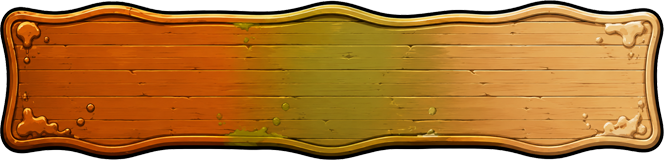
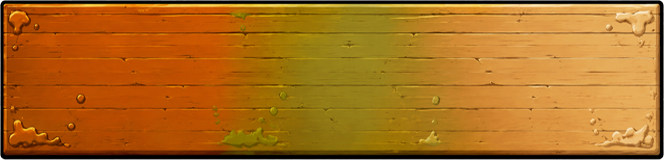
Stage 64.3.2: fix enemy panel sprite layout

diff --git a/README.md b/README.md
@@ -47,10 +47,10 @@ This stage includes:
 - `GameAssetCatalog` maps reserved image asset keys to future `res://assets/images/` paths and loads optional textures safely with a small cache for loaded and missing textures.
 - `AssetKeyResolver` maps background IDs, enemy IDs, tile types, special tile types, UI ids, level button states, star states, and booster ids to `GameAssetCatalog` asset keys without scattering string literals through UI code.
 - `GameScreen` uses an `ImageSlot` for the active battle background, applying the selected background asset key and placeholder color.
-- `EnemyPanel`'s `EnemySprite`/`BackgroundVisual` resolve textures through `GameAssetCatalog`/`AssetKeyResolver` (`get_enemy_normal_asset_key()`/`get_enemy_damaged_asset_key()`/`get_enemy_panel_background_asset_keys()`), never overwriting an Inspector-assigned texture (Stage 64.1).
+- `EnemyPanel`'s `EnemySprite`/`BackgroundVisual` resolve textures through `GameAssetCatalog`/`AssetKeyResolver` (`get_enemy_normal_asset_key()`/`get_enemy_damaged_asset_key()`/`get_enemy_panel_background_asset_keys()`), never overwriting an Inspector-assigned texture (Stage 64.1). `BackgroundVisual` is a full-rect background sized for a 664x200 texture; `EnemySprite` is a fixed 175x175 rect, horizontally centered and bottom-aligned to `EnemyPanel`'s bottom edge (Stage 64.3.2).
 - `TileView` resolves optional tile textures through the cached asset pipeline; missing tile textures preserve the current color placeholders and special `H`/`V`/`B` markers.
 - LevelSelect, Settings, battle HUD/status/result panels, and RoundModifierPanel now carry stable reserved UI asset keys for later texture art.
-- `BoosterPanel` (Stage 64.2, fixed into editor-visible scene nodes in Stage 64.3) uses square, texture-based `BoosterTextureButton` controls for Hammer, Time Freeze, and Rocket Barrage in active combat, reusing the existing Shop booster icon asset keys, with selected/disabled color-filter states and a bottom-center `CountLabel` overlay (e.g. `"x3"`).
+- `BoosterPanel` (Stage 64.2, fixed into editor-visible scene nodes in Stage 64.3) uses square, texture-based `BoosterTextureButton` controls for Hammer, Time Freeze, and Rocket Barrage in active combat, reusing the existing Shop booster icon asset keys, with selected/disabled states and a bottom-center `CountLabel` overlay (e.g. `"x3"`). When an icon texture is assigned, selected/disabled tint is applied via `ButtonTexture.modulate` rather than a full-rect color filter, so transparent icon padding stays transparent (Stage 64.3.1); the full-rect filter is now used only behind the `Fallback` placeholder when no icon texture is assigned.
 - Empty asset folders under `assets/images/backgrounds/`, `assets/images/enemies/`, `assets/images/tiles/`, `assets/images/ui/`, `assets/images/boosters/`, and `assets/images/heroes/` for later real images.
 - `AudioAssetCatalog` maps reserved audio keys to future `res://assets/audio/` paths and loads optional streams safely with a small cache for loaded and missing audio.
 - `AudioManager` is registered as an autoload singleton, owns one music player and an 8-player SFX pool, and safely no-ops when audio files are missing.
@@ -1763,8 +1763,35 @@ Stage 64.6 extends Stage 64.5's numeric asset renaming down into gameplay code: 
 - **Unchanged by design.** Board input/swaps/cascades, damage calculation, enemy HP, victory/defeat, result overlay, deterministic levels, holes, ice, no-move shuffle, economy, rewards, `LevelSelectScreen`, `MainMenuScreen`, `SettingsScreen`, and `ShopScreen` are all untouched — only enemy id strings and enemy asset-key strings changed, not any gameplay values or control flow.
 - **No automated tests were added, updated, touched, or run.** Manual verification in the Godot editor is expected for this stage.
 
+## Stage 64.3.1: Transparent Icon Filter/Fallback Fix v0.1
+
+Stage 64.3.1 is a micro-patch fixing a visual bug in `BoosterTextureButton` (Stage 64.2/64.3): its `StateFilter` full-rect `ColorRect` tinted the entire square node area for disabled/selected states, including the transparent padding around a transparent PNG icon, producing a visible colored square behind/around the icon instead of tinting only the icon itself.
+
+- **Root cause.** `booster_texture_button.gd`'s `_update_visual()` unconditionally showed `StateFilter` (a full-rect `ColorRect`) whenever `is_disabled_state`/`is_selected` was true, regardless of whether `ButtonTexture` had an active texture. Since transparent PNG icons don't fill their square slot, the full-rect tint was visible as a colored/dark square around the icon.
+- **Fix: texture-present states now use `ButtonTexture.modulate`.** When `active_texture` (from `default_texture`/`selected_texture`/`disabled_texture`) is non-null, `_update_visual()` no longer shows `StateFilter` at all; instead it sets `ButtonTexture.modulate` to a new `disabled_texture_modulate` (darker/desaturated, default `Color(0.55, 0.55, 0.55, 0.6)`) or `selected_texture_modulate` (brighter/highlighted, default `Color(1.25, 1.15, 0.75, 1.0)`) export, or `Color.WHITE` for the normal state. Since `modulate` only affects the texture's own visible pixels, transparent areas stay transparent.
+- **Fallback mode unchanged in spirit, scoped correctly.** `StateFilter` is now only ever shown when `active_texture == null` (no default/selected/disabled texture assigned), where it continues to tint the full-rect `Fallback` `ColorRect` using the existing `disabled_filter_color`/`selected_filter_color` exports, exactly as before. `Fallback` itself is still shown only when no active texture exists, and `ButtonTexture` is explicitly hidden (`visible = false`) in that case so no stale texture peeks through.
+- **`CountLabel` unaffected.** Still renders as a bottom-center overlay above icon/fallback in all states; its `x0`/`x1`/`x3` text logic (`set_count()`/`count_text`) was not touched.
+- **State logic preserved.** `is_selected`/`is_disabled_state`/`selected_texture`/`disabled_texture` fallback-to-`default_texture` behavior, `booster_id`, the `pressed` signal, and `BoosterPanel.refresh()`'s count/selected/disabled wiring are all unchanged — only how the state is *drawn* changed.
+- **Other GameScreen asset controls reviewed, no other fix needed.** `FallbackImageSlot` (`EnemyPanel`'s `BackgroundVisual`/`EnemySprite`, `BoosterPanel`'s `PanelBackground`) already hides its `Fallback` rect whenever a texture is assigned (`_fallback_rect.visible = texture == null`) and has no full-rect state-tint concept, so it did not have this bug. `ImageSlot` (used by `Board` tile textures) already only shows its placeholder `color` when no texture is set or `show_fallback_behind_texture` is explicitly enabled. `LevelMapButton`'s `StateFilter` (`level_select/level_map_button.gd`) already renders `default_texture` itself (via a `TextureRect`, not a plain `ColorRect`) with a modulate tint, so it never had the full-square-overlay bug either and was left untouched.
+- **`BoosterPanel` layering re-verified, no changes needed.** `PanelBackground` (a `FallbackImageSlot`) sits behind `ButtonRow` in the scene tree and both already have `mouse_filter` settings that don't block booster button clicks; no square fallback bleed-through from `PanelBackground` into individual booster buttons was found.
+- **Unchanged by design.** Booster ids, the `booster_pressed` signal, booster counts/spending, selected-booster mode, disabled-booster logic, board gameplay, enemy HP, the round modifier panel, economy, rewards, `LevelSelectScreen`, `MainMenuScreen`, `SettingsScreen`, and `ShopScreen` are all untouched.
+- **No automated tests were added, updated, touched, or run.** This is a visual-only micro-patch; manual verification in the Godot editor is expected.
+
+## Stage 64.3.2: Enemy Panel Fixed Background and Sprite Layout v0.1
+
+Stage 64.3.2 fixes `EnemyPanel`'s visual composition: `BackgroundVisual` stays a full-rect layer sized for a 664x200 texture, while `EnemySprite` becomes a fixed 175x175 rect, horizontally centered and bottom-aligned to `EnemyPanel`'s bottom edge, instead of stretching to fill the whole panel.
+
+- **`BackgroundVisual` unchanged.** Still a full-rect `FallbackImageSlot` (`anchors_preset = 15`, `stretch_mode = 6` / `STRETCH_KEEP_ASPECT_COVERED`) covering the entire `EnemyPanel`, sized for a 664x200-authored background texture (the panel's own runtime size is still driven by `game_screen.gd`'s portrait/landscape `custom_minimum_size`, e.g. `(664, 200)` portrait).
+- **`EnemySprite` resized and repositioned.** In `scenes/ui/EnemyPanel.tscn`, `EnemySprite` now uses `anchor_left = anchor_right = 0.5` (horizontal center) and `anchor_top = anchor_bottom = 1.0` (bottom edge), with `offset_left = -87.5`/`offset_right = 87.5`/`offset_top = -175`/`offset_bottom = 0`, producing a fixed 175x175 rect whose bottom edge sits exactly on `EnemyPanel`'s bottom edge and stays centered horizontally regardless of the panel's actual runtime width/height. No extra `EnemySpriteAnchor` wrapper node was needed — Control's anchor/offset system expresses the fixed centered-bottom box directly.
+- **`FallbackImageSlot` behavior on `EnemySprite` untouched.** Still shows the assigned/loaded enemy texture (`STRETCH_KEEP_ASPECT_CENTERED`, the class default, keeping the 175x175 box from distorting non-175x175 art) or its colored `Fallback` rect when no texture is set — same `_ready()`/`_update_visual()` logic as before, just operating on a smaller rect.
+- **`enemy_panel.gd` unchanged.** `set_enemy_state()`/`set_enemy_textures()` still resolve `enemy_N_normal.png`/`enemy_N_damaged.png` via `AssetKeyResolver.get_enemy_normal_asset_key()`/`get_enemy_damaged_asset_key()` exactly as before; the smaller `EnemySprite` rect only changes where the texture is drawn, not how it's chosen. `get_hit_target_global_position()`/`_play_flash_and_shake()` already read `enemy_sprite.size`/`.position` dynamically, so hit-shake/flash and the floating damage label now target the actual 175x175 icon box (previously the full panel) with no code changes required.
+- **HP bar, damage feedback, and hit layer preserved exactly.** `HpBarRoot`/`HpBarBackground`/`HpBarFill`/`HpValueLabel` (bottom-anchored, full-width, `"%d / %d"` format) and `HitEffectLayer` are untouched in both the scene and the script; `play_damage_feedback()`'s normal/damaged texture swap-and-restore tween and `play_hit_feedback()`'s flash/shake/floating-damage behavior are unchanged.
+- **Fallback behavior preserved.** Missing enemy/background textures still show their respective colored `Fallback` rects; Inspector-assigned textures on either slot are still never overwritten (`_sprite_manual_override`/`_background_manual_override`).
+- **Unchanged by design.** Board gameplay, boosters, economy, rewards, `LevelSelectScreen`, `MainMenuScreen`, `SettingsScreen`, `ShopScreen`, holes, ice, and the result flow are all untouched by this scene-only layout change.
+- **No automated tests were added, updated, touched, or run.** Manual verification in the Godot editor is expected for this stage.
+
 ## Next Planned Stages
 
-- Stage 26-30 block is complete. Stage 31 (hero portrait buttons and ability bars) is complete. Stage 32 (hero systems freeze and direct match damage foundation) is complete. Stage 33 (round modifiers and color damage rules) is complete. Stage 34 (direct match-3 balance pass) is complete. Stage 35 (direct LevelSelect startup and simplified UX polish) is complete. Stage 36 (ImageSlot asset placeholder pipeline) is complete. Stage 37 (asset loading integration for active imageholders) is complete. Stage 38 (AudioManager foundation) is complete. Stage 39 (Complete AssetKey texture binding) is complete. Stage 40 (Booster system foundation) is complete. Stage 41 (Board animation foundation) is complete. Stage 42 (Swap and match clear animations) is complete. Stage 43 (Gravity, refill and cascade animation flow) is complete. Stage 44 (Damage particles and enemy hit feedback) is complete. Stage 45 (Gameplay animation timeline stabilization) is complete. Stage 46 (Stepwise board resolution animation pipeline) is complete. Stage 47 (Animation QA and board visual stability pass) is complete. Stage 48 (Special tile activation animations) is complete. Stage 49 (Booster targeting and booster animation polish) is complete. Stage 49.1 (Stronger booster affected-cell preview) is complete. Stage 50 (Result screen and level flow UX polish) is complete. Stage 51 (Procedural challenge archetype foundation) is complete. Stage 52 (Active cell mask core) is complete. Stage 53 (Gravity and refill for masked boards) is complete. Stage 53.1 (Procedural hole generation rules foundation) is complete. Stage 54 (Procedural holes generator) is complete. Stage 54.1 (Hole shape variety and center-aware generation) is complete. Stage 54.2 (Gravity pass-through for inactive cells) is complete. Stage 55 (Inactive cell visual presentation and pass-through polish) is complete. Stage 55.1 (Inactive overlay stability and center-hole generation unlock) is complete. Stage 56 (Ice obstacle core) is complete. Stage 57 (Procedural ice generator) is complete. Stage 57.1 (Symmetric ice patterns and stronger ice visuals) is complete. Stage 57.2 (Ice density and cycle variant rules) is complete. Stage 57.3 (Debug ice visibility filter) is complete. Stage 57.4 (Rectangular ice clusters and symmetry completion) is complete. Stage 57.5 (Cell-anchored ice overlays and per-step ice sync) is complete. Stage 58 (Deterministic 500-level layout database) is complete. Stage 59 (Deterministic layout QA and no-move shuffle protection) is complete. Stage 59.1 (No-move shuffle integration and QA report finalization) is complete. Stage 60.1 (Fixed enemy HP and move curve baseline) is complete. Stage 60.2 (Level boost system foundation) is complete. Stage 60.3 (Deterministic 500-level boost database) is complete. Stage 61 (Main menu restoration) is complete. Stage 62.1 (Player wallet and booster inventory foundation) is complete. Stage 62.2 (Global booster spending) is complete. Stage 62.1.1 (Ice blocks player swaps hotfix) is complete. Stage 62.3 (Star milestone rewards) is complete. Stage 62.4 (Shop catalog and purchase resolver) is complete. Stage 62.5 (Shop UI tabs and purchase screens) is complete. Stage 63.1 (Asset-based main menu UI) is complete. Stage 63.1.1 (Anchored main menu labels) is complete. Stage 63.1.2 (Editor-visible main menu textures and child labels) is complete. Stage 63.1.3 (Main menu label nodes cleanup) is complete. Stage 63.1.4 (Inspector-driven main menu label layout) is complete. Stage 63.2 (Settings UI Shell) is complete. Stage 63.2.1 (Editor-visible settings assets) is complete. Stage 63.3 (Asset-based Shop UI Shell) is complete. Stage 63.3.1 (Shop window fallback layering hotfix) is complete. Stage 63.3.2 (Expanded shop window layout) is complete. Stage 63.3.3 (Shop tab texture buttons) is complete. Stage 63.4 (Level Select Map Zones) is complete. Stage 63.4.1 (Unified Level Select Manual Layout) is complete. Stage 63.4.2 (Level Button Overlays and Level Info Popup) is complete. Stage 63.4.3 (Level Select UI Cleanup and Shared Back Button) is complete. Stage 63.4.4 (Level Info Popup Star-State Window and Shared Buttons) is complete. Stage 63.4.5 (Level Zone Selector Polish) is complete. Stage 64.1 (Top Battle UI Rebuild) is complete. Stage 64.2 (Bottom Booster UI Rebuild) is complete. Stage 64.3 (Game UI Editor-Visible Asset Stabilization) is complete. Stage 64.4 (GameScreen Vertical Combat Layout Rework) is complete. Stage 64.5 (Game Asset Structure Audit and Rename) is complete. Stage 64.6 (Enemy Code Naming Normalization) is complete.
-- Next roadmap stages (not yet started): challenge cycle balance passes once `normal`/`ice`/`holes` all affect difficulty across the full campaign, new ice-related win goals, richer generated-challenge validation/retry beyond the current full-board fallback, UX polish for archetype-specific board presentation (including retiring the Stage 57.3 debug ice filter once final ice art ships), hand-authored/tuned overrides for individual deterministic levels/boosts on top of the Stage 58/60.3 databases, a real `LevelBoostPanel`-specific UI (icon/art) beyond reusing the round modifier panel's nodes, persisted "last played level" progress for Играть, icon/art for star milestone rewards, the actual `shop_window.png`/booster/gem/bundle art for the Stage 63.3 `ShopScreen` plus a real payment SDK (Yandex payments, ads, receipt/server validation) for its Gems/Bundles tabs, updating `direct_startup_flow_test.gd`'s shop-navigation assertions to match Stage 62.5/63.3 (left untouched per that stage's explicit test-freeze scope), a real custom level map background/zone art plus a prev/next `ZoneSelector` replacement, real `level_default`/`level_locked_overlay`/`level_completed_overlay`/`level_pressed` art plus the four real `level_info_{0_stars,1_star,2_stars,3_stars}.png` `LevelInfoPopup` window textures added in Stage 63.4.4, updating `level_select_zones_test.gd`/`ui_asset_key_binding_test.gd` to match the Stage 63.4-63.4.4 5-level zone size, unified-canvas node structure, popup-gated level start flow, and star-state popup window/shared popup-button behavior (left untouched per those stages' explicit test-freeze scope), real `enemy_background_{1-5}.png`/`enemy_1_normal.png`/`enemy_1_damaged.png` art (renamed to this numeric scheme in Stage 64.5) and full battle-background-style randomization reuse for the Stage 64.1 `EnemyPanel`, and updating `enemy_panel_hit_feedback_test.gd`/`enemy_panel_image_slot_test.gd`/`game_screen_layout_test.gd` to match the Stage 64.1 `EnemyPanel`/`RoundModifierPanel`/`BattleRoot` structure (left untouched per that stage's explicit test-freeze scope), real `hammer.png`/`freeze_time.png`/`rocket_barrage.png` Shop/booster icon art plus dedicated disabled/selected `BoosterTextureButton` texture variants for the Stage 64.2 `BoosterPanel`, removing the now-unused `BoosterButton`/`BoosterButton.tscn` once nothing references them, and updating `booster_panel_test.gd`/`booster_button_asset_stub_test.gd` to match the Stage 64.2/64.3 `BoosterPanel`/`BoosterTextureButton` fixed-node structure (left untouched per those stages' explicit test-freeze scope), real `res://assets/images/ui/game/booster_panel/background.png` art for the Stage 64.3 `PanelBackground`, updating `game_screen_layout_test.gd` to match the Stage 64.4 `BattleRoot` order/`BottomHudRow` rename/panel sizing (left untouched per that stage's explicit test-freeze scope), updating `game_asset_catalog_test.gd`/`asset_key_resolver_test.gd` to match the Stage 64.5 `enemy_1_normal`/`enemy_1_damaged`/`enemy_background_N` key names (left untouched per that stage's explicit test-freeze scope), real `enemy_2_normal.png`/`enemy_2_damaged.png` through `enemy_10_normal.png`/`enemy_10_damaged.png` art for the Stage 64.6 `enemy_2`..`enemy_10` roster, and updating `enemy_catalog_test.gd`/`enemy_scaling_test.gd`/`battle_factory_test.gd`/`direct_enemy_scaling_balance_test.gd`/`asset_key_resolver_test.gd`/`game_asset_catalog_test.gd`/`enemy_panel_image_slot_test.gd` to match the Stage 64.6 `enemy_1`..`enemy_10` ids (left untouched per that stage's explicit test-freeze scope).
+- Stage 26-30 block is complete. Stage 31 (hero portrait buttons and ability bars) is complete. Stage 32 (hero systems freeze and direct match damage foundation) is complete. Stage 33 (round modifiers and color damage rules) is complete. Stage 34 (direct match-3 balance pass) is complete. Stage 35 (direct LevelSelect startup and simplified UX polish) is complete. Stage 36 (ImageSlot asset placeholder pipeline) is complete. Stage 37 (asset loading integration for active imageholders) is complete. Stage 38 (AudioManager foundation) is complete. Stage 39 (Complete AssetKey texture binding) is complete. Stage 40 (Booster system foundation) is complete. Stage 41 (Board animation foundation) is complete. Stage 42 (Swap and match clear animations) is complete. Stage 43 (Gravity, refill and cascade animation flow) is complete. Stage 44 (Damage particles and enemy hit feedback) is complete. Stage 45 (Gameplay animation timeline stabilization) is complete. Stage 46 (Stepwise board resolution animation pipeline) is complete. Stage 47 (Animation QA and board visual stability pass) is complete. Stage 48 (Special tile activation animations) is complete. Stage 49 (Booster targeting and booster animation polish) is complete. Stage 49.1 (Stronger booster affected-cell preview) is complete. Stage 50 (Result screen and level flow UX polish) is complete. Stage 51 (Procedural challenge archetype foundation) is complete. Stage 52 (Active cell mask core) is complete. Stage 53 (Gravity and refill for masked boards) is complete. Stage 53.1 (Procedural hole generation rules foundation) is complete. Stage 54 (Procedural holes generator) is complete. Stage 54.1 (Hole shape variety and center-aware generation) is complete. Stage 54.2 (Gravity pass-through for inactive cells) is complete. Stage 55 (Inactive cell visual presentation and pass-through polish) is complete. Stage 55.1 (Inactive overlay stability and center-hole generation unlock) is complete. Stage 56 (Ice obstacle core) is complete. Stage 57 (Procedural ice generator) is complete. Stage 57.1 (Symmetric ice patterns and stronger ice visuals) is complete. Stage 57.2 (Ice density and cycle variant rules) is complete. Stage 57.3 (Debug ice visibility filter) is complete. Stage 57.4 (Rectangular ice clusters and symmetry completion) is complete. Stage 57.5 (Cell-anchored ice overlays and per-step ice sync) is complete. Stage 58 (Deterministic 500-level layout database) is complete. Stage 59 (Deterministic layout QA and no-move shuffle protection) is complete. Stage 59.1 (No-move shuffle integration and QA report finalization) is complete. Stage 60.1 (Fixed enemy HP and move curve baseline) is complete. Stage 60.2 (Level boost system foundation) is complete. Stage 60.3 (Deterministic 500-level boost database) is complete. Stage 61 (Main menu restoration) is complete. Stage 62.1 (Player wallet and booster inventory foundation) is complete. Stage 62.2 (Global booster spending) is complete. Stage 62.1.1 (Ice blocks player swaps hotfix) is complete. Stage 62.3 (Star milestone rewards) is complete. Stage 62.4 (Shop catalog and purchase resolver) is complete. Stage 62.5 (Shop UI tabs and purchase screens) is complete. Stage 63.1 (Asset-based main menu UI) is complete. Stage 63.1.1 (Anchored main menu labels) is complete. Stage 63.1.2 (Editor-visible main menu textures and child labels) is complete. Stage 63.1.3 (Main menu label nodes cleanup) is complete. Stage 63.1.4 (Inspector-driven main menu label layout) is complete. Stage 63.2 (Settings UI Shell) is complete. Stage 63.2.1 (Editor-visible settings assets) is complete. Stage 63.3 (Asset-based Shop UI Shell) is complete. Stage 63.3.1 (Shop window fallback layering hotfix) is complete. Stage 63.3.2 (Expanded shop window layout) is complete. Stage 63.3.3 (Shop tab texture buttons) is complete. Stage 63.4 (Level Select Map Zones) is complete. Stage 63.4.1 (Unified Level Select Manual Layout) is complete. Stage 63.4.2 (Level Button Overlays and Level Info Popup) is complete. Stage 63.4.3 (Level Select UI Cleanup and Shared Back Button) is complete. Stage 63.4.4 (Level Info Popup Star-State Window and Shared Buttons) is complete. Stage 63.4.5 (Level Zone Selector Polish) is complete. Stage 64.1 (Top Battle UI Rebuild) is complete. Stage 64.2 (Bottom Booster UI Rebuild) is complete. Stage 64.3 (Game UI Editor-Visible Asset Stabilization) is complete. Stage 64.4 (GameScreen Vertical Combat Layout Rework) is complete. Stage 64.5 (Game Asset Structure Audit and Rename) is complete. Stage 64.6 (Enemy Code Naming Normalization) is complete. Stage 64.3.1 (Transparent Icon Filter/Fallback Fix) is complete. Stage 64.3.2 (Enemy Panel Fixed Background and Sprite Layout) is complete.
+- Next roadmap stages (not yet started): challenge cycle balance passes once `normal`/`ice`/`holes` all affect difficulty across the full campaign, new ice-related win goals, richer generated-challenge validation/retry beyond the current full-board fallback, UX polish for archetype-specific board presentation (including retiring the Stage 57.3 debug ice filter once final ice art ships), hand-authored/tuned overrides for individual deterministic levels/boosts on top of the Stage 58/60.3 databases, a real `LevelBoostPanel`-specific UI (icon/art) beyond reusing the round modifier panel's nodes, persisted "last played level" progress for Играть, icon/art for star milestone rewards, the actual `shop_window.png`/booster/gem/bundle art for the Stage 63.3 `ShopScreen` plus a real payment SDK (Yandex payments, ads, receipt/server validation) for its Gems/Bundles tabs, updating `direct_startup_flow_test.gd`'s shop-navigation assertions to match Stage 62.5/63.3 (left untouched per that stage's explicit test-freeze scope), a real custom level map background/zone art plus a prev/next `ZoneSelector` replacement, real `level_default`/`level_locked_overlay`/`level_completed_overlay`/`level_pressed` art plus the four real `level_info_{0_stars,1_star,2_stars,3_stars}.png` `LevelInfoPopup` window textures added in Stage 63.4.4, updating `level_select_zones_test.gd`/`ui_asset_key_binding_test.gd` to match the Stage 63.4-63.4.4 5-level zone size, unified-canvas node structure, popup-gated level start flow, and star-state popup window/shared popup-button behavior (left untouched per those stages' explicit test-freeze scope), real `enemy_background_{1-5}.png`/`enemy_1_normal.png`/`enemy_1_damaged.png` art (renamed to this numeric scheme in Stage 64.5; target dimensions are 664x200 for backgrounds and 175x175 for enemy sprites per Stage 64.3.2's fixed `EnemyPanel` layout) and full battle-background-style randomization reuse for the Stage 64.1 `EnemyPanel`, and updating `enemy_panel_hit_feedback_test.gd`/`enemy_panel_image_slot_test.gd`/`game_screen_layout_test.gd` to match the Stage 64.1 `EnemyPanel`/`RoundModifierPanel`/`BattleRoot` structure (left untouched per that stage's explicit test-freeze scope), real `hammer.png`/`freeze_time.png`/`rocket_barrage.png` Shop/booster icon art plus dedicated disabled/selected `BoosterTextureButton` texture variants (Stage 64.3.1 already covers the transparent-icon state-tint rendering via `ButtonTexture.modulate` for whichever texture is active) for the Stage 64.2 `BoosterPanel`, removing the now-unused `BoosterButton`/`BoosterButton.tscn` once nothing references them, and updating `booster_panel_test.gd`/`booster_button_asset_stub_test.gd` to match the Stage 64.2/64.3 `BoosterPanel`/`BoosterTextureButton` fixed-node structure (left untouched per those stages' explicit test-freeze scope), real `res://assets/images/ui/game/booster_panel/background.png` art for the Stage 64.3 `PanelBackground`, updating `game_screen_layout_test.gd` to match the Stage 64.4 `BattleRoot` order/`BottomHudRow` rename/panel sizing (left untouched per that stage's explicit test-freeze scope), updating `game_asset_catalog_test.gd`/`asset_key_resolver_test.gd` to match the Stage 64.5 `enemy_1_normal`/`enemy_1_damaged`/`enemy_background_N` key names (left untouched per that stage's explicit test-freeze scope), real `enemy_2_normal.png`/`enemy_2_damaged.png` through `enemy_10_normal.png`/`enemy_10_damaged.png` art for the Stage 64.6 `enemy_2`..`enemy_10` roster, and updating `enemy_catalog_test.gd`/`enemy_scaling_test.gd`/`battle_factory_test.gd`/`direct_enemy_scaling_balance_test.gd`/`asset_key_resolver_test.gd`/`game_asset_catalog_test.gd`/`enemy_panel_image_slot_test.gd` to match the Stage 64.6 `enemy_1`..`enemy_10` ids (left untouched per that stage's explicit test-freeze scope).
 - Isolated Yandex Games platform adapter under `scripts/platform/` when explicitly requested.

diff --git a/docs/design/game_design_v0_1.md b/docs/design/game_design_v0_1.md
@@ -1579,3 +1579,30 @@ Stage 64.6 extends Stage 64.5's numeric asset renaming down into gameplay code: 
 - **Old names remain only in tests.** `scripts/tests/*.gd` (`enemy_catalog_test.gd`, `enemy_scaling_test.gd`, `battle_factory_test.gd`, `direct_enemy_scaling_balance_test.gd`, `asset_key_resolver_test.gd`, `game_asset_catalog_test.gd`, `enemy_panel_image_slot_test.gd`) still reference the old flavor names/keys (`"gatekeeper"`, `"enemy_small_slime"`, etc.) and were intentionally left untouched per this stage's test-freeze scope; they will need a future update to match `enemy_1`..`enemy_10`. `data/levels/deterministic_level_layouts.json`/`deterministic_level_boosts.json` contain no enemy id references at all (levels resolve their enemy via `EnemyCatalog`/`LevelCatalog` at runtime), so no data-file migration was needed.
 - **Unchanged by design.** Board input/swaps/cascades, damage calculation, enemy HP, victory/defeat, result overlay, deterministic levels, holes, ice, no-move shuffle, economy, rewards, `LevelSelectScreen`, `MainMenuScreen`, `SettingsScreen`, and `ShopScreen` are all untouched — only enemy id strings and enemy asset-key strings changed, not any gameplay values or control flow.
 - **No automated tests were added, updated, touched, or run.** Manual verification in the Godot editor is expected for this stage.
+
+## Stage 64.3.1: Transparent Icon Filter/Fallback Fix v0.1
+
+Stage 64.3.1 is a micro-patch fixing a visual bug in `BoosterTextureButton` (Stage 64.2/64.3): its `StateFilter` full-rect `ColorRect` tinted the entire square node area for disabled/selected states, including the transparent padding around a transparent PNG icon, producing a visible colored square behind/around the icon instead of tinting only the icon itself.
+
+- **Root cause.** `booster_texture_button.gd`'s `_update_visual()` unconditionally showed `StateFilter` (a full-rect `ColorRect`) whenever `is_disabled_state`/`is_selected` was true, regardless of whether `ButtonTexture` had an active texture. Since transparent PNG icons don't fill their square slot, the full-rect tint was visible as a colored/dark square around the icon.
+- **Fix: texture-present states now use `ButtonTexture.modulate`.** When `active_texture` (from `default_texture`/`selected_texture`/`disabled_texture`) is non-null, `_update_visual()` no longer shows `StateFilter` at all; instead it sets `ButtonTexture.modulate` to a new `disabled_texture_modulate` (darker/desaturated, default `Color(0.55, 0.55, 0.55, 0.6)`) or `selected_texture_modulate` (brighter/highlighted, default `Color(1.25, 1.15, 0.75, 1.0)`) export, or `Color.WHITE` for the normal state. Since `modulate` only affects the texture's own visible pixels, transparent areas stay transparent.
+- **Fallback mode unchanged in spirit, scoped correctly.** `StateFilter` is now only ever shown when `active_texture == null` (no default/selected/disabled texture assigned), where it continues to tint the full-rect `Fallback` `ColorRect` using the existing `disabled_filter_color`/`selected_filter_color` exports, exactly as before. `Fallback` itself is still shown only when no active texture exists, and `ButtonTexture` is explicitly hidden (`visible = false`) in that case so no stale texture peeks through.
+- **`CountLabel` unaffected.** Still renders as a bottom-center overlay above icon/fallback in all states; its `x0`/`x1`/`x3` text logic (`set_count()`/`count_text`) was not touched.
+- **State logic preserved.** `is_selected`/`is_disabled_state`/`selected_texture`/`disabled_texture` fallback-to-`default_texture` behavior, `booster_id`, the `pressed` signal, and `BoosterPanel.refresh()`'s count/selected/disabled wiring are all unchanged — only how the state is *drawn* changed.
+- **Other GameScreen asset controls reviewed, no other fix needed.** `FallbackImageSlot` (`EnemyPanel`'s `BackgroundVisual`/`EnemySprite`, `BoosterPanel`'s `PanelBackground`) already hides its `Fallback` rect whenever a texture is assigned (`_fallback_rect.visible = texture == null`) and has no full-rect state-tint concept, so it did not have this bug. `ImageSlot` (used by `Board` tile textures) already only shows its placeholder `color` when no texture is set or `show_fallback_behind_texture` is explicitly enabled. `LevelMapButton`'s `StateFilter` (`level_select/level_map_button.gd`) already renders `default_texture` itself (via a `TextureRect`, not a plain `ColorRect`) with a modulate tint, so it never had the full-square-overlay bug either and was left untouched.
+- **`BoosterPanel` layering re-verified, no changes needed.** `PanelBackground` (a `FallbackImageSlot`) sits behind `ButtonRow` in the scene tree and both already have `mouse_filter` settings that don't block booster button clicks; no square fallback bleed-through from `PanelBackground` into individual booster buttons was found.
+- **Unchanged by design.** Booster ids, the `booster_pressed` signal, booster counts/spending, selected-booster mode, disabled-booster logic, board gameplay, enemy HP, the round modifier panel, economy, rewards, `LevelSelectScreen`, `MainMenuScreen`, `SettingsScreen`, and `ShopScreen` are all untouched.
+- **No automated tests were added, updated, touched, or run.** This is a visual-only micro-patch; manual verification in the Godot editor is expected.
+
+## Stage 64.3.2: Enemy Panel Fixed Background and Sprite Layout v0.1
+
+Stage 64.3.2 fixes `EnemyPanel`'s visual composition: `BackgroundVisual` stays a full-rect layer sized for a 664x200 texture, while `EnemySprite` becomes a fixed 175x175 rect, horizontally centered and bottom-aligned to `EnemyPanel`'s bottom edge, instead of stretching to fill the whole panel.
+
+- **`BackgroundVisual` unchanged.** Still a full-rect `FallbackImageSlot` (`anchors_preset = 15`, `stretch_mode = 6` / `STRETCH_KEEP_ASPECT_COVERED`) covering the entire `EnemyPanel`, sized for a 664x200-authored background texture (the panel's own runtime size is still driven by `game_screen.gd`'s portrait/landscape `custom_minimum_size`, e.g. `(664, 200)` portrait).
+- **`EnemySprite` resized and repositioned.** In `scenes/ui/EnemyPanel.tscn`, `EnemySprite` now uses `anchor_left = anchor_right = 0.5` (horizontal center) and `anchor_top = anchor_bottom = 1.0` (bottom edge), with `offset_left = -87.5`/`offset_right = 87.5`/`offset_top = -175`/`offset_bottom = 0`, producing a fixed 175x175 rect whose bottom edge sits exactly on `EnemyPanel`'s bottom edge and stays centered horizontally regardless of the panel's actual runtime width/height. No extra `EnemySpriteAnchor` wrapper node was needed — Control's anchor/offset system expresses the fixed centered-bottom box directly.
+- **`FallbackImageSlot` behavior on `EnemySprite` untouched.** Still shows the assigned/loaded enemy texture (`STRETCH_KEEP_ASPECT_CENTERED`, the class default, keeping the 175x175 box from distorting non-175x175 art) or its colored `Fallback` rect when no texture is set — same `_ready()`/`_update_visual()` logic as before, just operating on a smaller rect.
+- **`enemy_panel.gd` unchanged.** `set_enemy_state()`/`set_enemy_textures()` still resolve `enemy_N_normal.png`/`enemy_N_damaged.png` via `AssetKeyResolver.get_enemy_normal_asset_key()`/`get_enemy_damaged_asset_key()` exactly as before; the smaller `EnemySprite` rect only changes where the texture is drawn, not how it's chosen. `get_hit_target_global_position()`/`_play_flash_and_shake()` already read `enemy_sprite.size`/`.position` dynamically, so hit-shake/flash and the floating damage label now target the actual 175x175 icon box (previously the full panel) with no code changes required.
+- **HP bar, damage feedback, and hit layer preserved exactly.** `HpBarRoot`/`HpBarBackground`/`HpBarFill`/`HpValueLabel` (bottom-anchored, full-width, `"%d / %d"` format) and `HitEffectLayer` are untouched in both the scene and the script; `play_damage_feedback()`'s normal/damaged texture swap-and-restore tween and `play_hit_feedback()`'s flash/shake/floating-damage behavior are unchanged.
+- **Fallback behavior preserved.** Missing enemy/background textures still show their respective colored `Fallback` rects; Inspector-assigned textures on either slot are still never overwritten (`_sprite_manual_override`/`_background_manual_override`).
+- **Unchanged by design.** Board gameplay, boosters, economy, rewards, `LevelSelectScreen`, `MainMenuScreen`, `SettingsScreen`, `ShopScreen`, holes, ice, and the result flow are all untouched by this scene-only layout change.
+- **No automated tests were added, updated, touched, or run.** Manual verification in the Godot editor is expected for this stage.